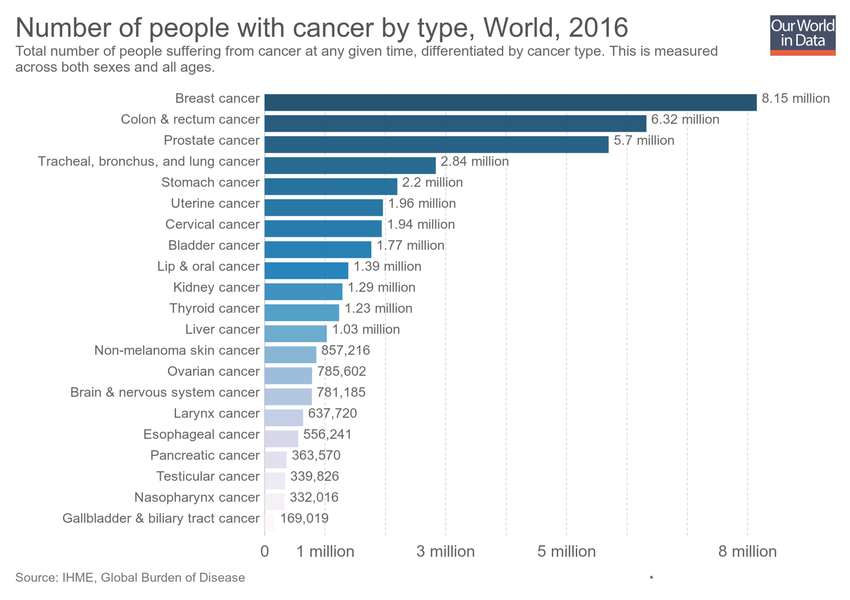
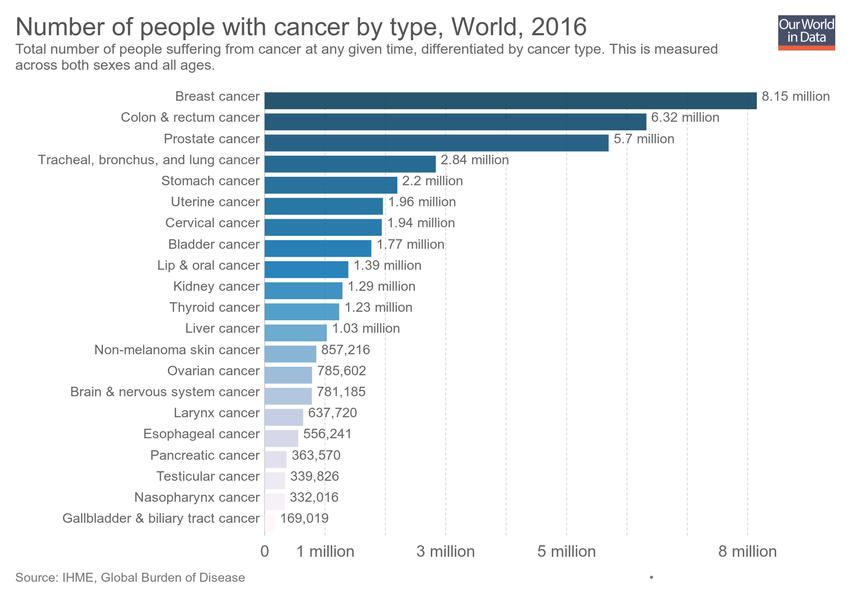
Updating chart number-of-people-with-cancer-by-type

Changed region(s): [[0.0612, 0.15, 0.9788, 0.75], [0.0, 0.03, 0.8565, 0.12], [0.8871, 0.03, 1.0, 0.12]]

diff --git a/grapher/number-of-people-with-cancer-by-type.html b/grapher/number-of-people-with-cancer-by-type.html
@@ -1,4 +1,4 @@
-<!doctype html><html><head><meta name="viewport" content="width=device-width, initial-scale=1" /><title>Number of people with cancer by type - Our World in Data</title><meta name="description" content="Total number of people suffering from cancer at any given time, differentiated by cancer type. This is measured across both sexes and all ages." /><link rel="canonical" href="https://ourworldindata.org/grapher/number-of-people-with-cancer-by-type" /><meta property="fb:app_id" content="1149943818390250" /><meta property="og:url" content="https://ourworldindata.org/grapher/number-of-people-with-cancer-by-type" /><meta property="og:title" content="Number of people with cancer by type" /><meta property="og:description" content="Total number of people suffering from cancer at any given time, differentiated by cancer type. This is measured across both sexes and all ages." /><meta property="og:image" content="https://ourworldindata.org/grapher/exports/number-of-people-with-cancer-by-type.png?v=1" /><meta property="og:image:width" content="850" /><meta property="og:image:height" content="600" /><meta property="og:site_name" content="Our World in Data" /><meta name="twitter:card" content="summary_large_image" /><meta name="twitter:site" content="@OurWorldInData" /><meta name="twitter:creator" content="@OurWorldInData" /><meta name="twitter:title" content="Number of people with cancer by type" /><meta name="twitter:description" content="Total number of people suffering from cancer at any given time, differentiated by cancer type. This is measured across both sexes and all ages." /><meta name="twitter:image" content="https://ourworldindata.org/grapher/exports/number-of-people-with-cancer-by-type.png?v=1" /><style>
+<!doctype html><html><head><meta name="viewport" content="width=device-width, initial-scale=1" /><title>Number of people with cancer by type - Our World in Data</title><meta name="description" content="Total number of people suffering from cancer at any given time, differentiated by cancer type. This is measured across both sexes and all ages." /><link rel="canonical" href="https://ourworldindata.org/grapher/number-of-people-with-cancer-by-type" /><meta property="fb:app_id" content="1149943818390250" /><meta property="og:url" content="https://ourworldindata.org/grapher/number-of-people-with-cancer-by-type" /><meta property="og:title" content="Number of people with cancer by type" /><meta property="og:description" content="Total number of people suffering from cancer at any given time, differentiated by cancer type. This is measured across both sexes and all ages." /><meta property="og:image" content="https://ourworldindata.org/grapher/exports/number-of-people-with-cancer-by-type.png?v=2" /><meta property="og:image:width" content="850" /><meta property="og:image:height" content="600" /><meta property="og:site_name" content="Our World in Data" /><meta name="twitter:card" content="summary_large_image" /><meta name="twitter:site" content="@OurWorldInData" /><meta name="twitter:creator" content="@OurWorldInData" /><meta name="twitter:title" content="Number of people with cancer by type" /><meta name="twitter:description" content="Total number of people suffering from cancer at any given time, differentiated by cancer type. This is measured across both sexes and all ages." /><meta name="twitter:image" content="https://ourworldindata.org/grapher/exports/number-of-people-with-cancer-by-type.png?v=2" /><style>
         html, body {
             height: 100%;
             margin: 0;
@@ -20,8 +20,8 @@
         }
     </style><noscript><style>
                     figure { display: none !important; }
-                </style></noscript><link rel="stylesheet" href="https://ourworldindata.org/grapher/assets/commons.bundle.019a92548339820130b6.css" /><link rel="preload" href="/grapher/data/variables/82173+80032+79992+74153+74213+74113+82158+80072+74173+80052+80092+74133+74053+82138+80152+80112+74093+80132+74193+80012+74033.json?v=1" as="fetch" crossorigin /></head><body class="singleChart"><figure data-grapher-src="/grapher/number-of-people-with-cancer-by-type"></figure><noscript id="fallback"><img src="/grapher/exports/number-of-people-with-cancer-by-type.svg" /><p>Interactive visualization requires JavaScript</p></noscript><script src="https://cdn.polyfill.io/v2/polyfill.min.js?features=es6,fetch"></script><script src="https://ourworldindata.org/grapher/assets/commons.bundle.019a92548339820130b6.js"></script><script src="https://ourworldindata.org/grapher/assets/charts.bundle.dcf65b68eddaba4c6a58.js"></script><script>
-        var jsonConfig = {"map":{"projection":"World","colorSchemeLabels":[],"colorSchemeValues":[],"defaultProjection":"World","colorSchemeMinValue":0,"customNumericColors":[],"customCategoryColors":{},"customCategoryLabels":{},"customHiddenCategories":{}},"tab":"chart","slug":"number-of-people-with-cancer-by-type","type":"DiscreteBar","title":"Number of people with cancer by type","xAxis":{"scaleType":"linear"},"yAxis":{"min":0,"scaleType":"linear"},"version":1,"subtitle":"Total number of people suffering from cancer at any given time, differentiated by cancer type. This is measured across both sexes and all ages.","hasMapTab":false,"stackMode":"absolute","dimensions":[{"display":{"name":"Liver cancer","unit":"people"},"property":"y","variableId":82173,"numDecimalPlaces":0},{"display":{"name":"Breast cancer","unit":"people"},"property":"y","variableId":80032,"numDecimalPlaces":0},{"display":{"name":"Larynx cancer","unit":"people"},"property":"y","variableId":79992,"numDecimalPlaces":0},{"display":{"name":"Kidney cancer","unit":"people"},"property":"y","variableId":74153,"numDecimalPlaces":0},{"display":{"name":"Thyroid cancer","unit":"people"},"property":"y","variableId":74213,"numDecimalPlaces":0},{"display":{"name":"Ovarian cancer","unit":"people"},"property":"y","variableId":74113,"numDecimalPlaces":0},{"display":{"name":"Stomach cancer","unit":"people"},"property":"y","variableId":82158,"numDecimalPlaces":0},{"display":{"name":"Uterine cancer","unit":"people"},"property":"y","variableId":80072,"numDecimalPlaces":0},{"display":{"name":"Bladder cancer","unit":"people"},"property":"y","variableId":74173,"numDecimalPlaces":0},{"display":{"name":"Cervical cancer","unit":"people"},"property":"y","variableId":80052,"numDecimalPlaces":0},{"display":{"name":"Prostate cancer","unit":"people"},"property":"y","variableId":80092,"numDecimalPlaces":0},{"display":{"name":"Testicular cancer","unit":"people"},"property":"y","variableId":74133,"numDecimalPlaces":0},{"display":{"name":"Pancreatic cancer","unit":"people"},"property":"y","variableId":74053,"numDecimalPlaces":0},{"display":{"name":"Esophageal cancer","unit":"people"},"property":"y","variableId":82138,"numDecimalPlaces":0},{"display":{"name":"Nasopharynx cancer","unit":"people"},"property":"y","variableId":80152,"numDecimalPlaces":0},{"display":{"name":"Colon & rectum cancer","unit":"people"},"property":"y","variableId":80112,"numDecimalPlaces":0},{"display":{"name":"Non-melanoma skin cancer","unit":"people"},"property":"y","variableId":74093,"numDecimalPlaces":0},{"display":{"name":"Lip & oral cancer","unit":"people"},"property":"y","variableId":80132,"numDecimalPlaces":0},{"display":{"name":"Brain & nervous system cancer","unit":"people"},"property":"y","variableId":74193,"numDecimalPlaces":0},{"display":{"name":"Tracheal, bronchus, and lung cancer","unit":"people"},"property":"y","variableId":80012,"numDecimalPlaces":0},{"display":{"name":"Gallbladder & biliary tract cancer","unit":"people"},"property":"y","variableId":74033,"numDecimalPlaces":0}],"isAutoSlug":true,"sourceDesc":"IHME, Global Burden of Disease","hasChartTab":true,"isPublished":true,"selectedData":[{"index":0,"entityId":355},{"index":1,"entityId":355},{"index":10,"entityId":355},{"index":11,"entityId":355},{"index":12,"entityId":355},{"index":13,"entityId":355},{"index":14,"entityId":355},{"index":15,"entityId":355},{"index":16,"entityId":355},{"index":17,"entityId":355},{"index":18,"entityId":355},{"index":19,"entityId":355},{"index":2,"entityId":355},{"index":20,"entityId":355},{"index":3,"entityId":355},{"index":4,"entityId":355},{"index":5,"entityId":355},{"index":6,"entityId":355},{"index":7,"entityId":355},{"index":8,"entityId":355},{"index":9,"entityId":355}],"addCountryMode":"change-country","baseColorScheme":"PuBu","id":2241};
+                </style></noscript><link rel="stylesheet" href="https://ourworldindata.org/grapher/assets/commons.bundle.019a92548339820130b6.css" /><link rel="preload" href="/grapher/data/variables/82173+80032+79992+74153+74213+74113+82158+80072+74173+80052+80092+74133+74053+82138+80152+80112+74093+80132+74193+80012+74033.json?v=2" as="fetch" crossorigin /></head><body class="singleChart"><figure data-grapher-src="/grapher/number-of-people-with-cancer-by-type"></figure><noscript id="fallback"><img src="/grapher/exports/number-of-people-with-cancer-by-type.svg" /><p>Interactive visualization requires JavaScript</p></noscript><script src="https://cdn.polyfill.io/v2/polyfill.min.js?features=es6,fetch"></script><script src="https://ourworldindata.org/grapher/assets/commons.bundle.019a92548339820130b6.js"></script><script src="https://ourworldindata.org/grapher/assets/charts.bundle.dcf65b68eddaba4c6a58.js"></script><script>
+        var jsonConfig = {"id":2241,"map":{"projection":"World","colorSchemeLabels":[],"colorSchemeValues":[],"colorSchemeMinValue":0,"customNumericColors":[],"customCategoryColors":{},"customCategoryLabels":{},"customHiddenCategories":{}},"tab":"chart","slug":"number-of-people-with-cancer-by-type","type":"DiscreteBar","title":"Number of people with cancer by type","xAxis":{"scaleType":"linear"},"yAxis":{"min":0,"scaleType":"linear"},"version":2,"subtitle":"Total number of people suffering from cancer at any given time, differentiated by cancer type. This is measured across both sexes and all ages.","hasMapTab":false,"stackMode":"absolute","dimensions":[{"display":{"name":"Liver cancer","unit":"people","numDecimalPlaces":0},"property":"y","variableId":82173},{"display":{"name":"Breast cancer","unit":"people","numDecimalPlaces":0},"property":"y","variableId":80032},{"display":{"name":"Larynx cancer","unit":"people","numDecimalPlaces":0},"property":"y","variableId":79992},{"display":{"name":"Kidney cancer","unit":"people","numDecimalPlaces":0},"property":"y","variableId":74153},{"display":{"name":"Thyroid cancer","unit":"people","numDecimalPlaces":0},"property":"y","variableId":74213},{"display":{"name":"Ovarian cancer","unit":"people","numDecimalPlaces":0},"property":"y","variableId":74113},{"display":{"name":"Stomach cancer","unit":"people","numDecimalPlaces":0},"property":"y","variableId":82158},{"display":{"name":"Uterine cancer","unit":"people","numDecimalPlaces":0},"property":"y","variableId":80072},{"display":{"name":"Bladder cancer","unit":"people","numDecimalPlaces":0},"property":"y","variableId":74173},{"display":{"name":"Cervical cancer","unit":"people","numDecimalPlaces":0},"property":"y","variableId":80052},{"display":{"name":"Prostate cancer","unit":"people","numDecimalPlaces":0},"property":"y","variableId":80092},{"display":{"name":"Testicular cancer","unit":"people","numDecimalPlaces":0},"property":"y","variableId":74133},{"display":{"name":"Pancreatic cancer","unit":"people","numDecimalPlaces":0},"property":"y","variableId":74053},{"display":{"name":"Esophageal cancer","unit":"people","numDecimalPlaces":0},"property":"y","variableId":82138},{"display":{"name":"Nasopharynx cancer","unit":"people","numDecimalPlaces":0},"property":"y","variableId":80152},{"display":{"name":"Colon & rectum cancer","unit":"people","numDecimalPlaces":0},"property":"y","variableId":80112},{"display":{"name":"Non-melanoma skin cancer","unit":"people","numDecimalPlaces":0},"property":"y","variableId":74093},{"display":{"name":"Lip & oral cancer","unit":"people","numDecimalPlaces":0},"property":"y","variableId":80132},{"display":{"name":"Brain & nervous system cancer","unit":"people","numDecimalPlaces":0},"property":"y","variableId":74193},{"display":{"name":"Tracheal, bronchus, and lung cancer","unit":"people","numDecimalPlaces":0},"property":"y","variableId":80012},{"display":{"name":"Gallbladder & biliary tract cancer","unit":"people","numDecimalPlaces":0},"property":"y","variableId":74033}],"sourceDesc":"IHME, Global Burden of Disease","hasChartTab":true,"isPublished":true,"selectedData":[{"index":0,"entityId":355},{"index":1,"entityId":355},{"index":10,"entityId":355},{"index":11,"entityId":355},{"index":12,"entityId":355},{"index":13,"entityId":355},{"index":14,"entityId":355},{"index":15,"entityId":355},{"index":16,"entityId":355},{"index":17,"entityId":355},{"index":18,"entityId":355},{"index":19,"entityId":355},{"index":2,"entityId":355},{"index":20,"entityId":355},{"index":3,"entityId":355},{"index":4,"entityId":355},{"index":5,"entityId":355},{"index":6,"entityId":355},{"index":7,"entityId":355},{"index":8,"entityId":355},{"index":9,"entityId":355}],"addCountryMode":"change-country","baseColorScheme":"PuBu"};
         var figure = document.getElementsByTagName("figure")[0];
         try {
             window.App = {};
